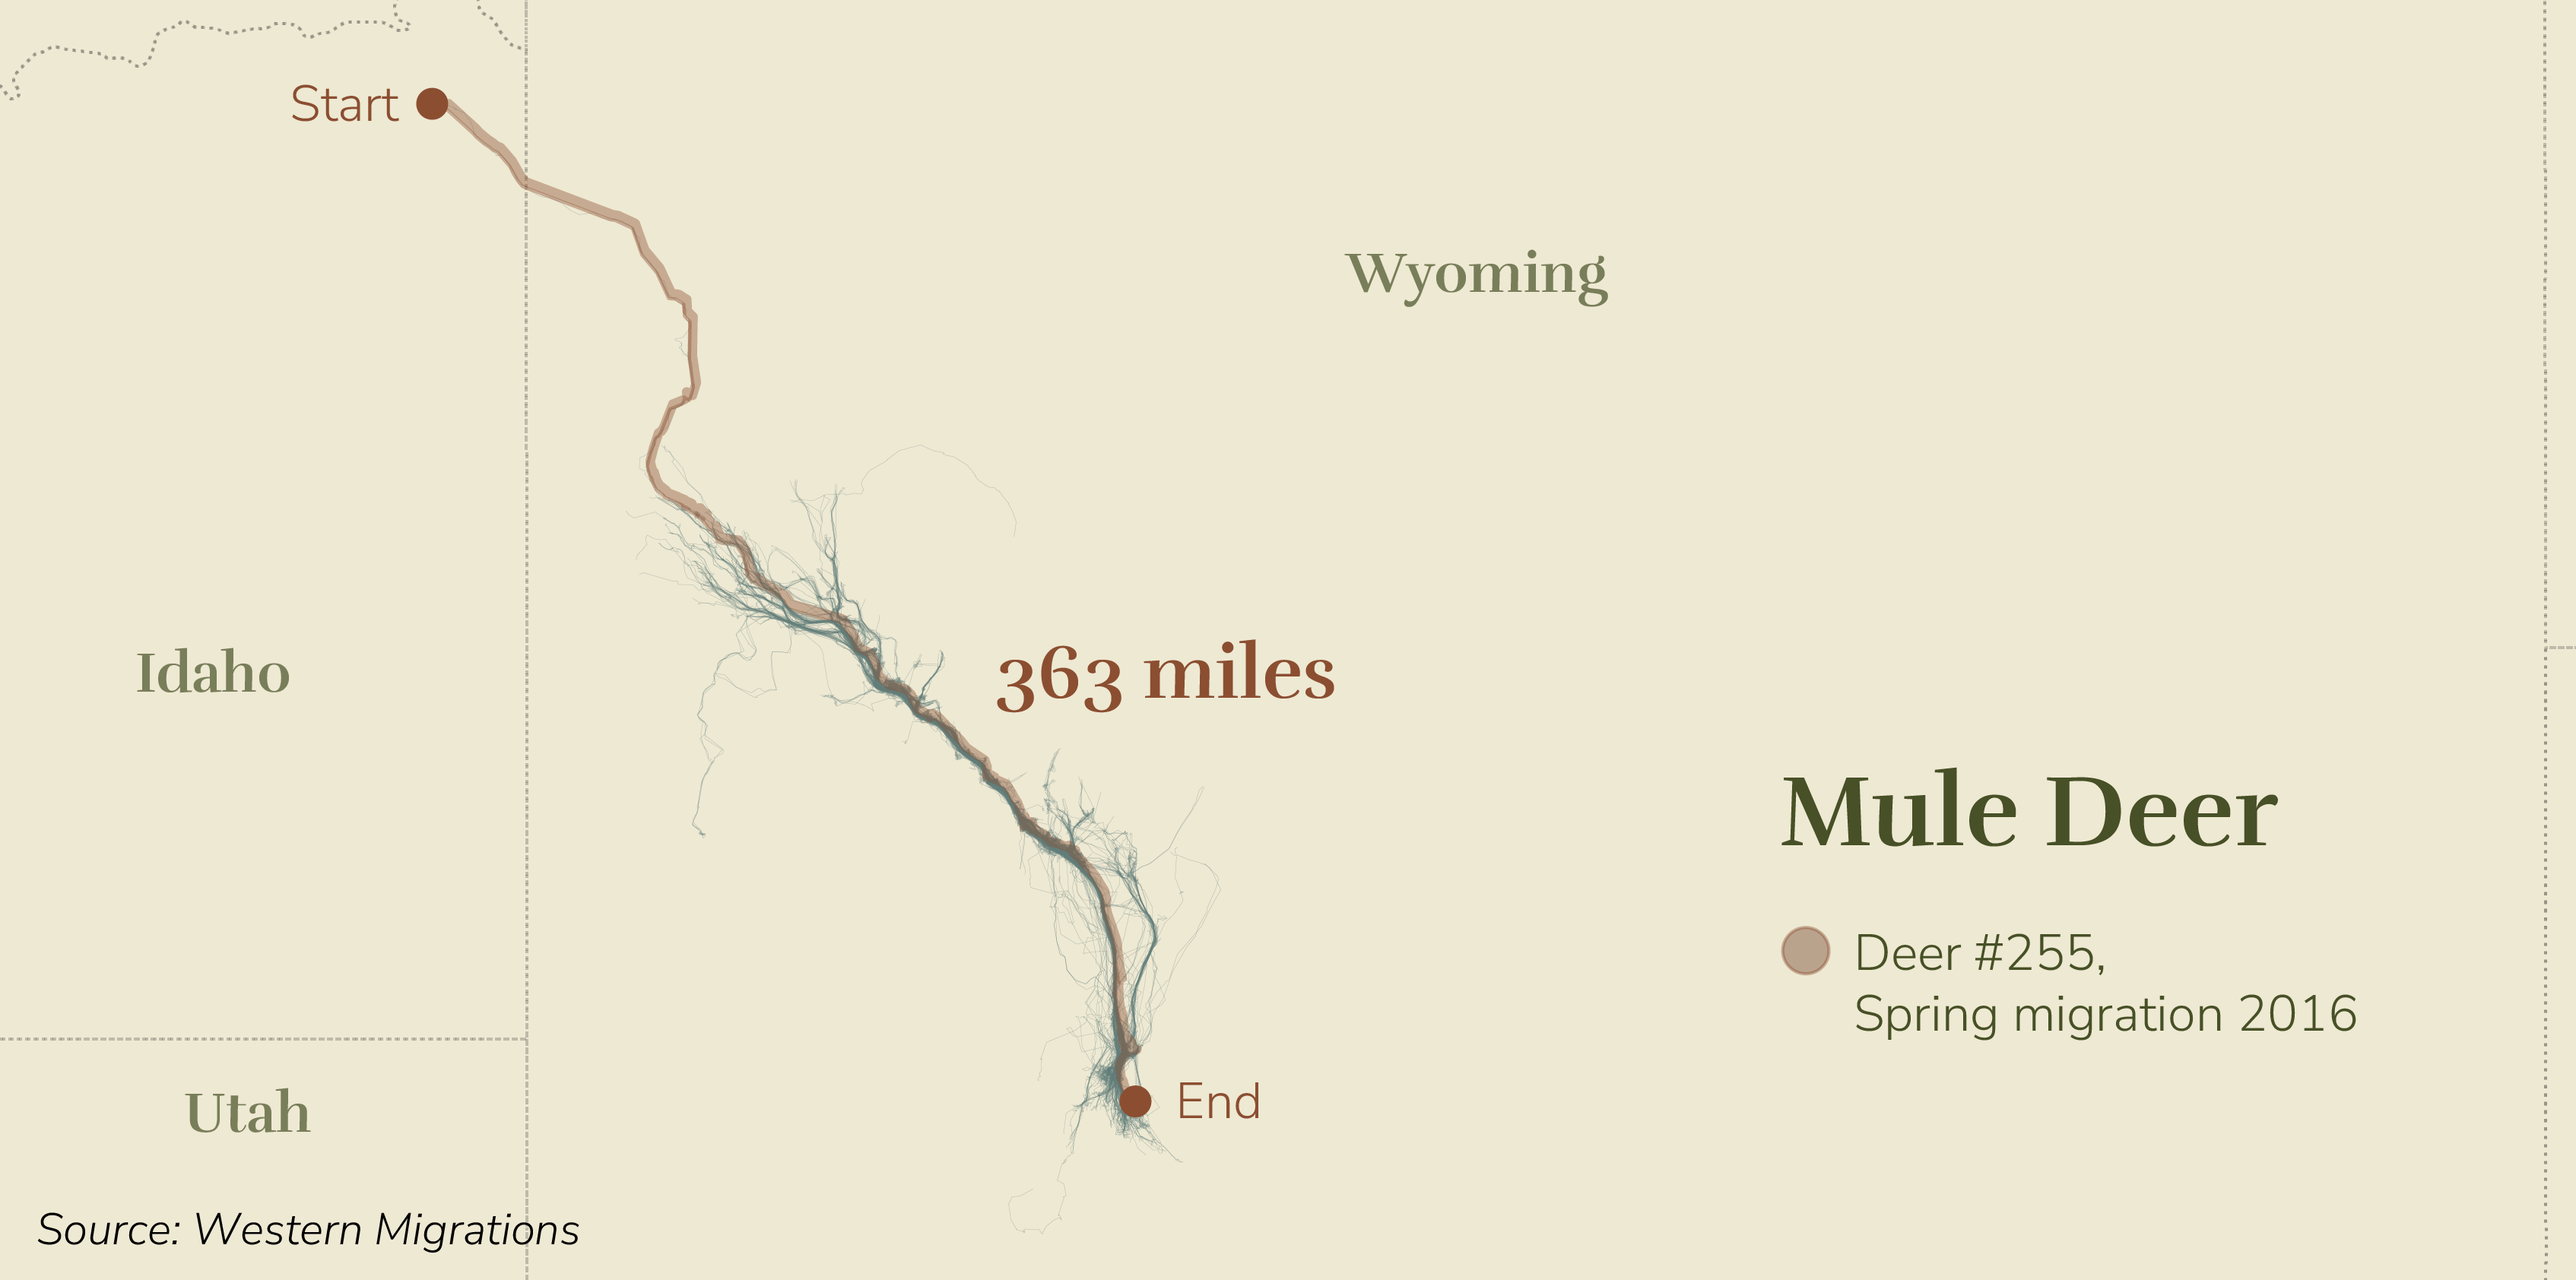
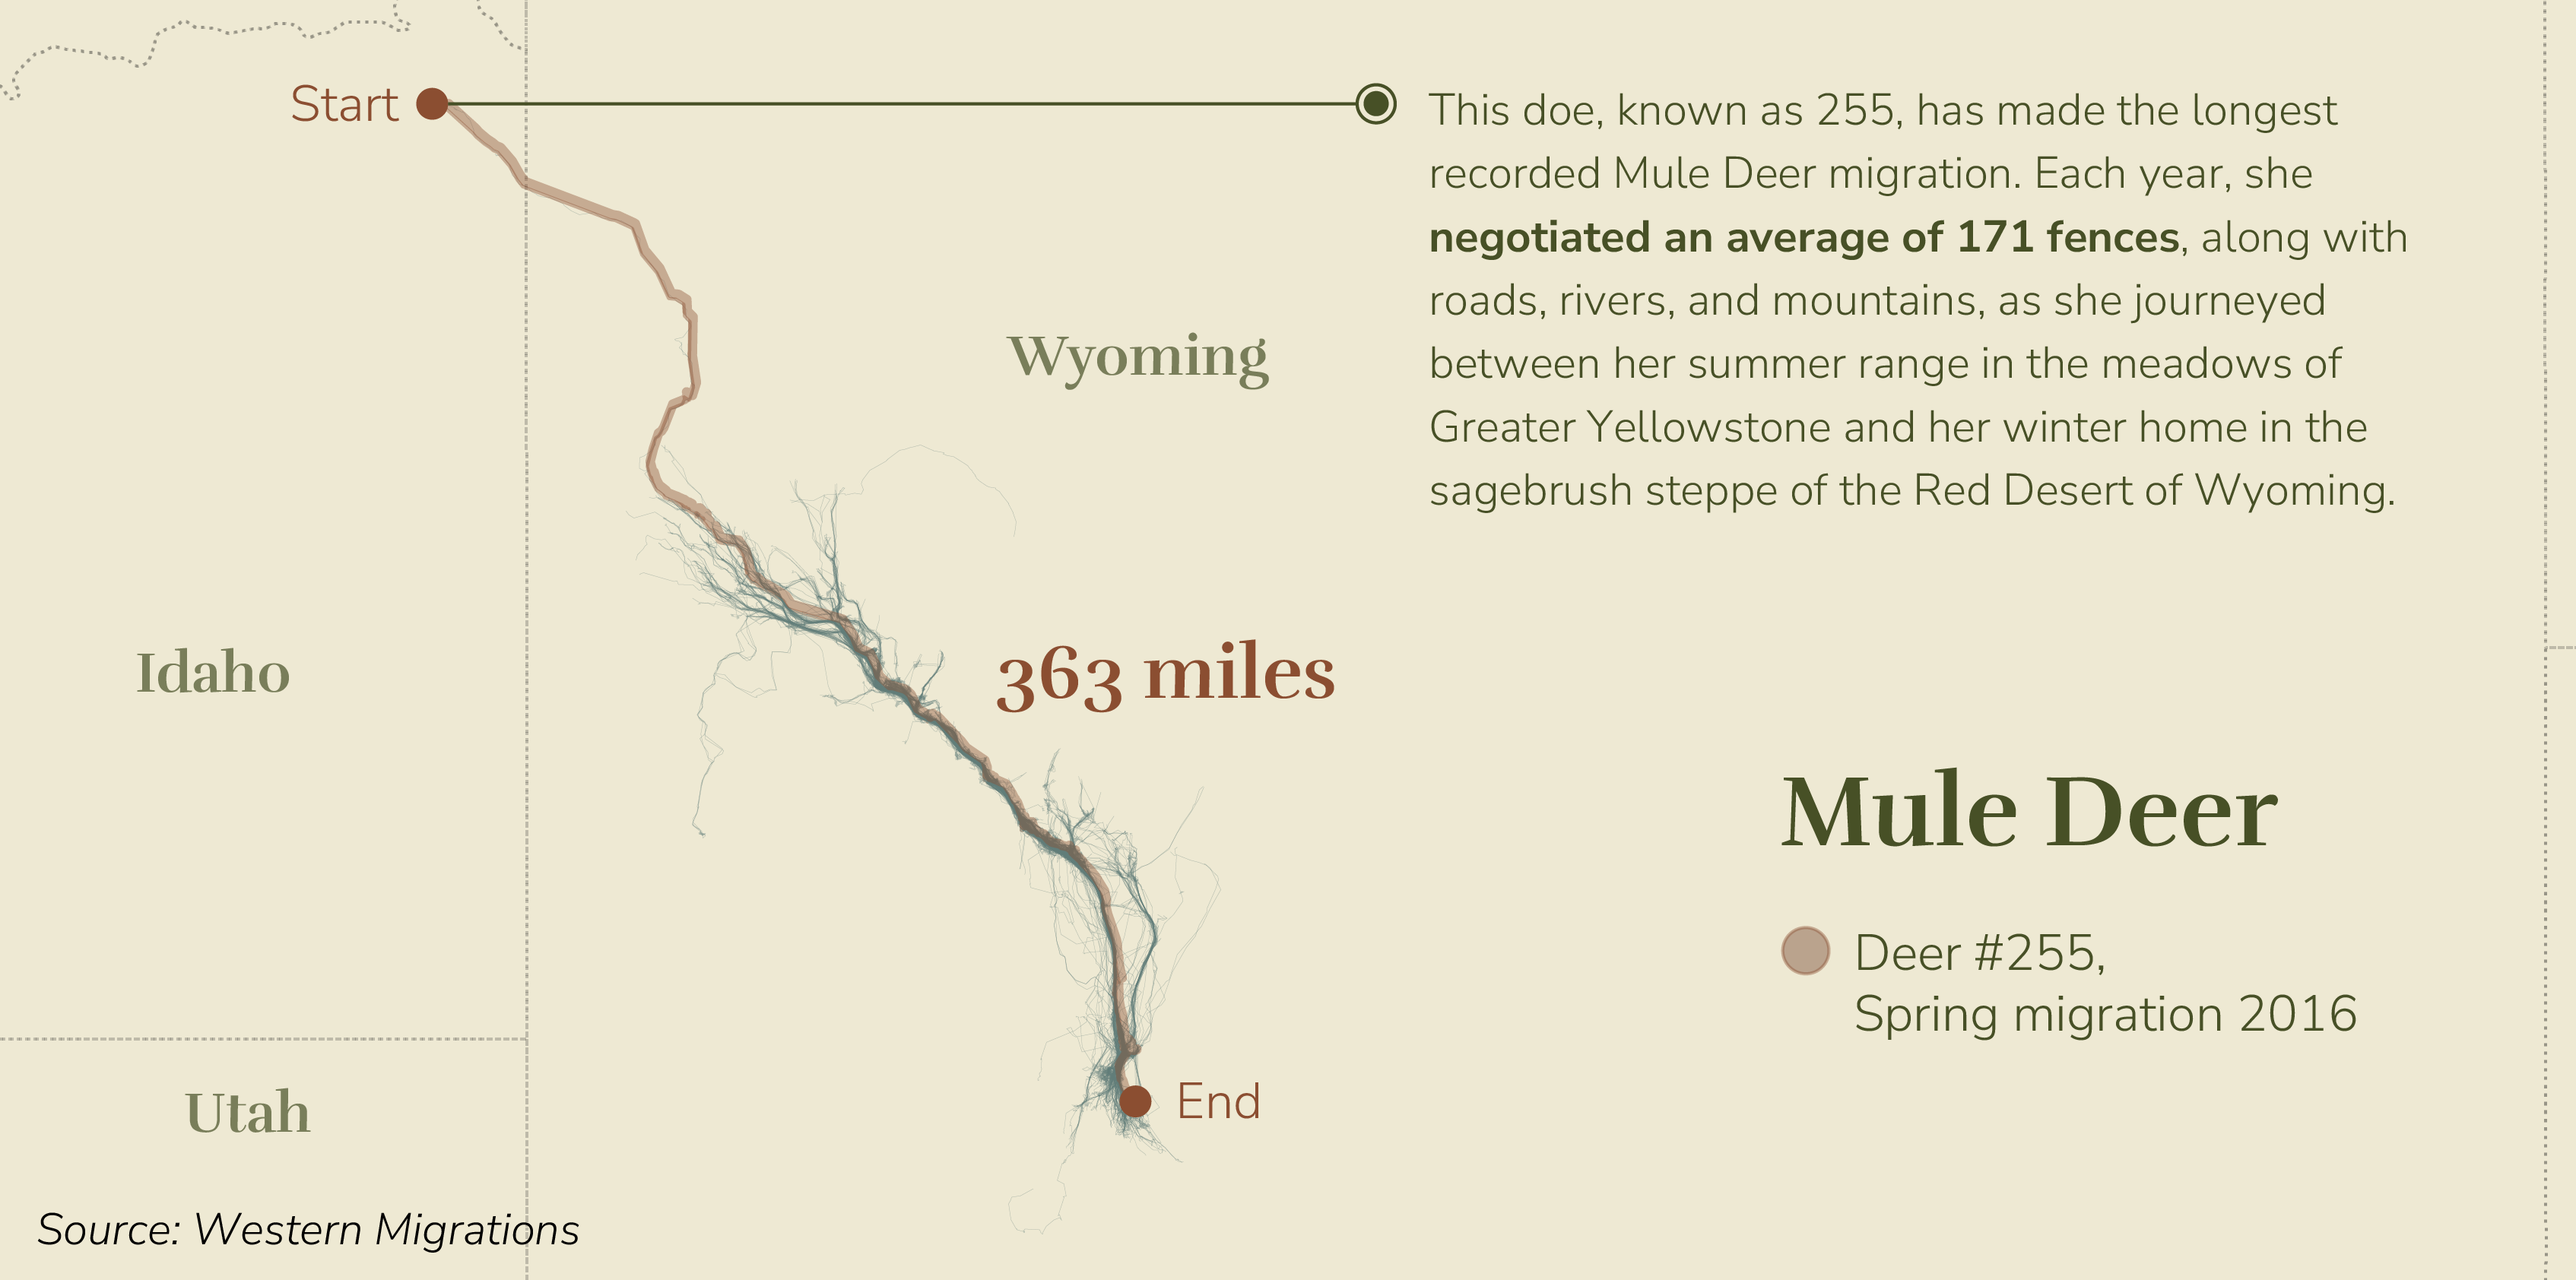
add mule deer popup text

diff --git a/src/components/LeafletMap.vue b/src/components/LeafletMap.vue
@@ -10,7 +10,7 @@
   </div>
     <div id="legend-container">
       <div>
-        <div @click="toggleLegendBox" id="toggle-legend">Tap to minimize legend</div>
+        <div @click="toggleLegendBox" id="toggle-legend">&minus; Minimize legend</div>
         <div id="legend-contents">
         <div v-if="layerName == 'pfg'">
           <div class="legend-title">Grasslands</div>
@@ -49,11 +49,12 @@
           <div v-else-if="layerType == 'range'">
             <div class="legend-title">Species range</div>
             <div style="margin-top: 5px">
-              <span class="circle-legend-before"></span> Maximum known range
+              <span class="circle-legend-before"></span> Maximum historical range
             </div>
             <div><span class="circle-legend-after"></span> Current</div>
           </div>
           <div v-else-if="layerType == 'abundance'">
+            <div v-if="speciesLayerName == 'Monarch Butterfly'">
             <div class="legend-title">Estimated abundance</div>
             <div style="height: 100px">
               <v-btn-toggle
@@ -66,7 +67,7 @@
                 <v-btn value="before" rounded="5">Before</v-btn>
                 <v-btn value="after" selected rounded="5">After</v-btn>
               </v-btn-toggle>
-              <div v-if="speciesLayerName == 'Monarch Butterfly'">
+              
                 <div style="font-style: italic; margin-bottom: 0px">
                 Butterflies show relative loss at scale, and do not represent
                 actual butterfly locations.
@@ -81,14 +82,16 @@
                   range
                 </div>
               </div>
-              </div>
-              <div v-else>
-                <br>
-                <span>Before: pre 2000</span>
-                <br>
-                <span>After: 2000-2020</span>
-              </div>
             </div>
+          </div>
+          <div v-else>
+                <br>
+                <div><span class="circle-legend-before"></span> Before: pre 2000</div>
+                <div><span class="circle-legend-after"></span> After: 2000-2020</div>
+                <div style="font-style: italic; margin-bottom: 0px">
+                  Range maps created based on polygon detection maps using the Bumble Bees of North America database.
+              </div>
+              </div>
           </div>
         </div>
         </div>
@@ -218,13 +221,13 @@ export default {
 
         document.getElementById("legend-contents").classList.remove("hide-content")
 
-        document.getElementById("toggle-legend").innerHTML = "Tap to minimize legend";
+        document.getElementById("toggle-legend").innerHTML = "&minus; Minimize legend";
       } else {
         document.getElementById("legend-container").style.height = "40px";
 
         document.getElementById("legend-contents").classList.add("hide-content")
 
-        document.getElementById("toggle-legend").innerHTML = "Expand legend";
+        document.getElementById("toggle-legend").innerHTML = "&plus; Expand legend";
       }
       
     },
@@ -327,37 +330,43 @@ export default {
       }
     },
     drawBumbleBee() {
-      // Define the custom icon
-      var beeIcon = L.icon({
-          iconUrl: "/images/icons/noun-bumble-bee-5498655.svg", // Adjust the path as needed
-          iconSize: [18, 65], // Size of the icon; adjust based on your SVG's dimensions
-          iconAnchor: [19, 47], // Point of the icon which corresponds to marker's location
-          popupAnchor: [0, -47], // Point where the popup will open relative to the iconAnchor
+      fetch("/data/bees-pre-2000-range.geojson")
+        .then((response) => response.json())
+        .then((data) => {
+          
+          // Add GeoJSON layer for historic range
+          L.geoJSON(data, {
+            style: function (feature) {
+              return {
+                color: "#7f9694", // Example color
+                weight: 2,
+              };
+            },
+          }).addTo(this.map);
         });
-      if (this.beforeAfterToggle == "after") {
-        fetch("/data/bees-post-2000.json")
-          .then((response) => response.json())
-          .then(data => {
-            console.log('data loaded')
-        // Loop through the data and create markers for each point
-        data.forEach(point => {
-            return L.marker([point.latitude, point.longitude], { icon: beeIcon }).addTo(this.map);
-            // You can customize the marker icon, popup, etc. here if needed
+
+      // Load range GeoJSON for the current range
+      fetch("/data/bees-post-2000-range.geojson")
+        .then((response) => response.json())
+        .then((data) => {
+          
+          // Add GeoJSON layer to the map once the file is loaded
+          L.geoJSON(data, {
+            style: function (feature) {
+              return {
+                color: "#BBA38E", // Example color
+                weight: 2,
+                fillOpacity: 0.7,
+              };
+            },
+          }).addTo(this.map);
         });
-        console.log('loop complete')
-      })
-      } else {
-        fetch("/data/bees-post-2000-reduced.json")
-          .then((response) => response.json())
-          .then(data => {
-            console.log('data loaded')
-        // Loop through the data and create markers for each point
-        data.forEach(point => {
-            return L.marker([point.latitude, point.longitude], { icon: beeIcon }).addTo(this.map);
-        });
-        console.log('loop complete')
-      })
-      }
+
+        // Create a popup
+        var popup = L.popup()
+            .setLatLng([36.1627, -86.7816])
+            .setContent("Southern Plain Bumblebees are 85% less common than they were before 2000.")
+            .openOn(this.map);
 
       // turn the display of #loading-msg to none
       document.getElementById("loading-msg").style.display = "none";
@@ -483,6 +492,13 @@ export default {
               };
             },
           }).addTo(this.map);
+
+          // Create a popup
+        var popup = L.popup()
+            .setLatLng([44.5123, -111.2998]) // Approximate coordinates for Last Chance, Idaho
+            .setContent("<p style='font-size: 14px'>This doe, known as 255, has made the longest recorded Mule Deer migration. Each year, she <b>negotiated an average of 171 fences</b>, along with roads, rivers, and mountains, as she journeyed between her summer range in the meadows of Greater Yellowstone and her winter home in the sagebrush steppe of the Red Desert of Wyoming.</p>")
+            .openOn(this.map);
+
         });
     },
     drawRegalFrit() {
@@ -876,7 +892,10 @@ export default {
 }
 
 #toggle-legend {
-  display: none
+  display: block;
+  text-decoration: underline;
+  text-align: right;
+  cursor: pointer;
 }
 
 @media (max-width: 800px) {

diff --git a/src/components/SpeciesHighlight.vue b/src/components/SpeciesHighlight.vue
@@ -16,7 +16,6 @@
       </div>
     </div>
     <div class="species-map-container">
-      <h2>Species Snapshot</h2>
       <img :src="'../images/trend-maps/'+speciesObject.id+'.png'" alt="">
     </div>
   </div>
